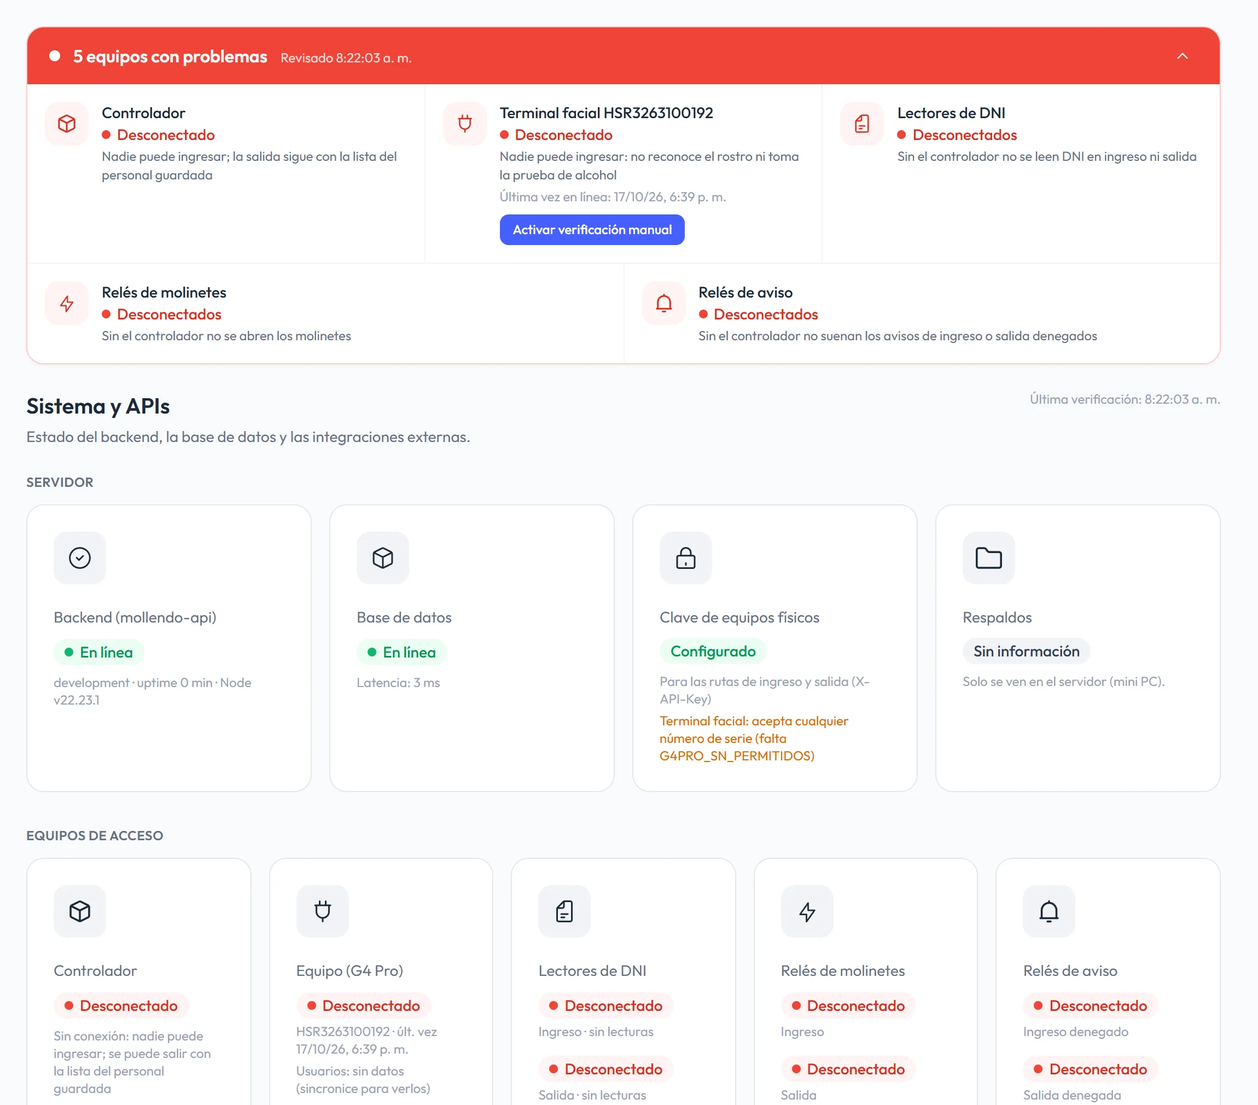
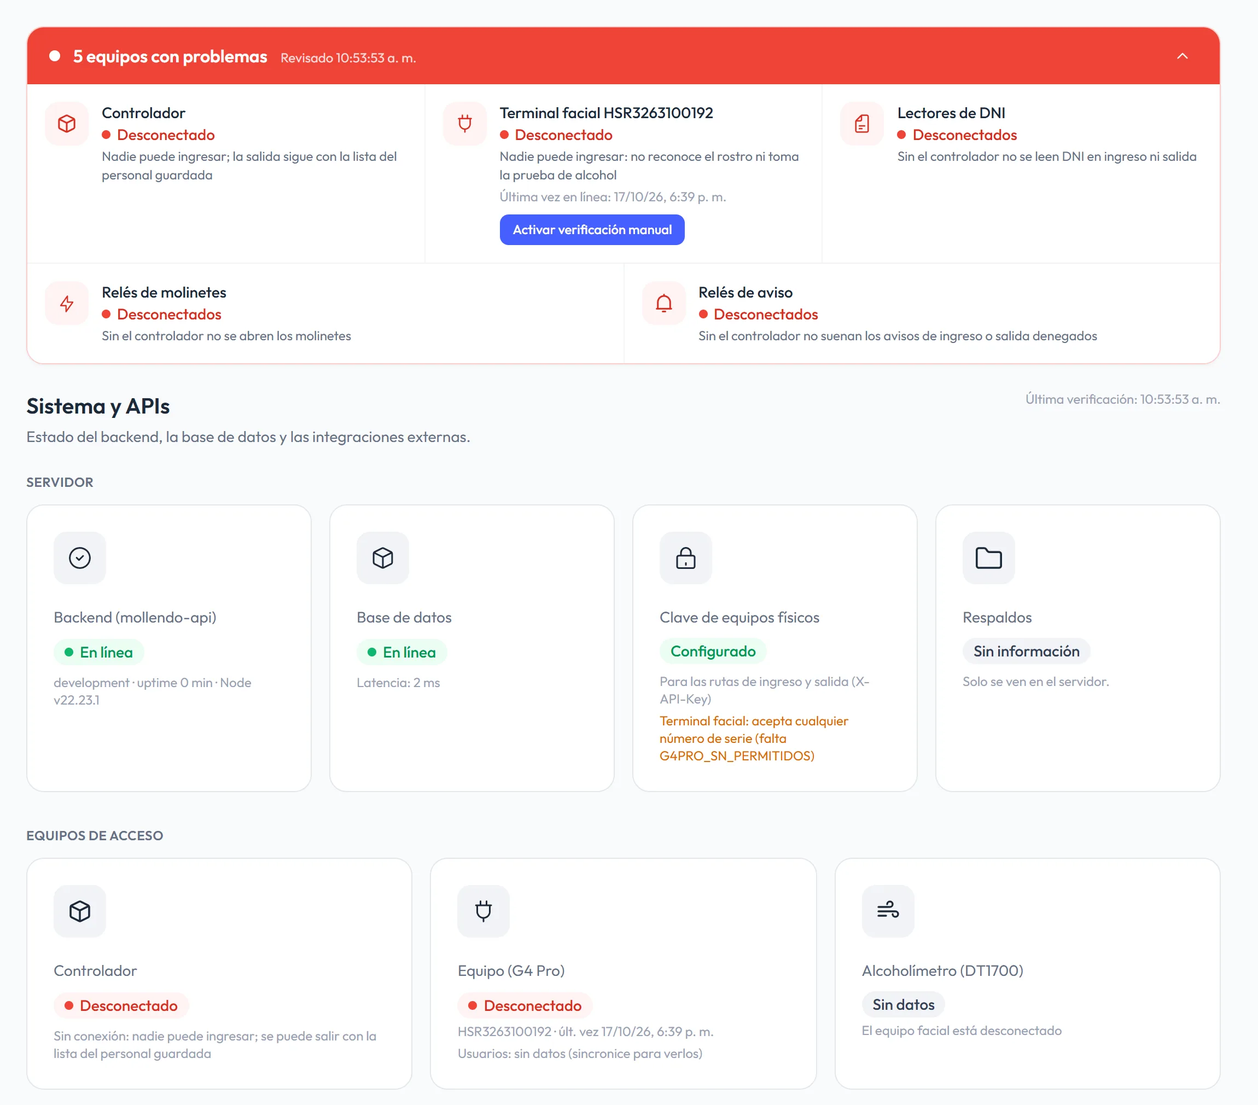
update test

diff --git a/mollendo-api/src/push-sdk/alcoholimetro.service.ts b/mollendo-api/src/push-sdk/alcoholimetro.service.ts
@@ -2,8 +2,11 @@ import { Injectable, Logger, type OnModuleDestroy, type OnModuleInit } from '@ne
 import { PrismaService } from '../prisma/prisma.service.js';
 import { PushSdkService } from './push-sdk.service.js';
 
-/** Cada cuánto se pregunta al equipo facial si el alcoholímetro sigue conectado. */
-const REVISION_MS = 60 * 1000;
+/**
+ * Cada cuánto se pregunta al equipo facial si el alcoholímetro sigue conectado
+ * (el equipo no avisa solo; la orden es liviana: solo lee la lista de USB).
+ */
+const REVISION_MS = 10 * 1000;
 /** Cuánto se espera la respuesta (el equipo recoge las órdenes cada ~2 s). */
 const ESPERA_RESPUESTA_MS = 20 * 1000;
 

diff --git a/mollendo-portal/src/app/(admin)/manual/secciones.tsx b/mollendo-portal/src/app/(admin)/manual/secciones.tsx
@@ -1040,6 +1040,10 @@ export const SECCIONES: SeccionManual[] = [
                   <b>Terminal facial (G4 Pro):</b> en línea o no, su última actividad y cuántas personas y rostros tiene.
                 </li>
                 <li>
+                  <b>Alcoholímetro (DT1700):</b> conectado o no al terminal facial; se revisa cada 10 segundos. Desconectado, nadie puede
+                  ingresar.
+                </li>
+                <li>
                   <b>Lectores de DNI:</b> ingreso y salida, con su última lectura. Si no pita al pasar un DNI, revise su alimentación.
                 </li>
                 <li>

diff --git a/mollendo-api/src/panel/estado-sistema.service.ts b/mollendo-api/src/panel/estado-sistema.service.ts
@@ -47,7 +47,7 @@ export class EstadoSistemaService {
       baseDeDatos = { estado: 'down', latenciaMs: Date.now() - inicio };
     }
 
-    // Cada equipo facial con su alcoholímetro (se revisa cada minuto: AlcoholimetroService).
+    // Cada equipo facial con su alcoholímetro (se revisa cada 10 s: AlcoholimetroService).
     const dispositivos = (await this.pushSdk.listarEstadoDispositivos()).map((d) => ({ ...d, alcoholimetro: this.alcoholimetro.estado(d.serialNumber) }));
     // Con controlador (MOLINETES_REMOTOS=true), los lectores y los relés
     // están en la mini PC de la garita: se muestra lo que ella informa.

diff --git a/mollendo-api/src/push-sdk/push-sdk.service.ts b/mollendo-api/src/push-sdk/push-sdk.service.ts
@@ -319,7 +319,7 @@ export class PushSdkService {
    * Respuestas a consultas (por id de comando). Las grandes llegan en varias
    * partes (`packcnt`/`packidx`): se juntan hasta tenerlas todas.
    */
-  /** Consultas que no se anotan en el registro (las periódicas, p. ej. el alcoholímetro cada minuto). */
+  /** Consultas que no se anotan en el registro (las periódicas, p. ej. el alcoholímetro cada 10 s). */
   private readonly consultasSilenciosas = new Set<number>();
   private readonly respuestasConsulta = new Map<
     number,

diff --git a/mollendo-portal/src/lib/api/types.ts b/mollendo-portal/src/lib/api/types.ts
@@ -244,7 +244,7 @@ export interface EstadoDispositivo {
   ipAddress: string | null;
   /** IP del equipo en la red de la garita (la que informa al registrarse). */
   ipLocal?: string | null;
-  /** El alcoholímetro conectado a ese equipo (se revisa cada minuto; conectado null: todavía no se sabe). */
+  /** El alcoholímetro conectado a ese equipo (se revisa cada 10 s; conectado null: todavía no se sabe). */
   alcoholimetro?: { conectado: boolean | null; revisado: string | null; conectadoVisto: string | null };
 }
 

diff --git a/mollendo-portal/src/app/(admin)/sistema/TarjetasEstado.tsx b/mollendo-portal/src/app/(admin)/sistema/TarjetasEstado.tsx
@@ -119,7 +119,7 @@ export function EquiposEstado({
 
 /**
  * El alcoholímetro de cada equipo facial: el equipo lo ve como un dispositivo
- * USB y el servidor le pregunta cada minuto si sigue ahí. Si está conectado
+ * USB y el servidor le pregunta cada 10 s si sigue ahí. Si está conectado
  * pero no mide, no se nota aquí (el equipo solo le habla durante una prueba).
  */
 export function AlcoholimetroEstado({ comprobando, equipos }: { comprobando: boolean; equipos?: EstadoSistema["equipos"] }) {

diff --git a/PROGRESO.md b/PROGRESO.md
@@ -725,7 +725,7 @@ Resumen del estado actual. El detalle de cada cambio está en la bitácora (abaj
 - **2026-10-20** — **Monitor del G4 Pro en su propia página.** En Sistema y APIs la tarjeta ya no se despliega: título, descripción, insignia "En vivo" y botón **Abrir monitor**, que lleva a `/sistema/monitor` (la tabla de siempre, con "← Sistema y APIs" y "En vivo" arriba). Manual, guía de depuración y checklist (6.6) actualizados. Desplegado en Azure (portal); `/sistema/monitor` responde 200.
 - **2026-10-20** — **Monitor: horas y demora.** La demora cuenta segundos enteros (antes redondeaba: 18:24:26 → 18:24:37,6 decía 12 s en vez de 11). La prueba lleva siempre el día; llegada e ingreso solo la hora (el día solo si cambia).
 - **2026-10-20** — **Monitor del G4 Pro por días y páginas.** Como el Panel: empieza en hoy (selector de día, "Hoy", "Todos los días"), búsqueda por nombre o DNI y 10 por página, como el Panel con "Mostrando X a Y de Z" (antes, las 30 últimas). `GET /integraciones/g4pro/marcaciones` acepta pagina, porPagina, busqueda, desde y hasta (por la llegada) y devuelve `{datos, total, pagina, porPagina}`; las pruebas que no llegaron se comparan con la anterior del equipo aunque esté en otra página o día (con búsqueda no se marcan). "En vivo" solo con hoy o todos los días. Probado en Azure con los datos reales (hoy 4 pruebas; "vilchez" 27). API 244/244, portal 131/131.
-- **2026-10-21** — **Alcoholímetro como equipo aparte (parte A).** Pedido del usuario. `AlcoholimetroService` pregunta cada minuto a cada G4 en línea si ve el USB `1a86:7523` (orden SHELL silenciosa que se borra de la cola al responder). "Sistema y APIs" tiene la tarjeta "Alcoholímetro (DT1700)" (Conectado / Desconectado / Sin datos), la franja de fallas avisa "Nadie puede ingresar: el equipo facial no puede tomar la prueba de alcohol" y la Auditoría registra la desconexión y la vuelta. Al publicarlo (10:39) marcó una **falsa desconexión**: con varias órdenes separadas por ";" el G4 solo devuelve la salida de la última, y llegaba solo "FIN". Ahora es una orden única (`cat /sys/bus/usb/devices/*/uevent | grep -c PRODUCT=1a86/7523/`: 2 si está, 0 si no); a las 10:47 quedó "conectado". La Auditoría guarda esa falsa desconexión (10:39) y su vuelta (10:47, "8 min 5 s"). Pendiente (parte B, tras la prueba física): desconectarlo de verdad, y detectar uno conectado que no mide. API 288/288. Desplegado en Azure (API y portal; respaldos `~/respaldo-alcoholimetro-*.tgz` y `~/respaldo-alcoholimetro2-*.tgz`); mini PC igual a la local.
+- **2026-10-21** — **Alcoholímetro como equipo aparte (parte A).** Pedido del usuario. `AlcoholimetroService` pregunta cada minuto a cada G4 en línea si ve el USB `1a86:7523` (orden SHELL silenciosa que se borra de la cola al responder). "Sistema y APIs" tiene la tarjeta "Alcoholímetro (DT1700)" (Conectado / Desconectado / Sin datos), la franja de fallas avisa "Nadie puede ingresar: el equipo facial no puede tomar la prueba de alcohol" y la Auditoría registra la desconexión y la vuelta. Al publicarlo (10:39) marcó una **falsa desconexión**: con varias órdenes separadas por ";" el G4 solo devuelve la salida de la última, y llegaba solo "FIN". Ahora es una orden única (`cat /sys/bus/usb/devices/*/uevent | grep -c PRODUCT=1a86/7523/`: 2 si está, 0 si no); a las 10:47 quedó "conectado". La Auditoría guarda esa falsa desconexión (10:39) y su vuelta (10:47, "8 min 5 s"). 10:55: a pedido del usuario se revisa **cada 10 s** (antes cada minuto; el equipo no avisa solo, y la orden solo lee la lista de USB); manual (punto "Alcoholímetro (DT1700)" en Sistema y APIs, texto aprobado, captura retomada), Documento Funcional, contingencias y checklist al día. Vigilar que no atrase los pases (si se nota, subir a 15-20 s). Pendiente (parte B, tras la prueba física): desconectarlo de verdad, y detectar uno conectado que no mide. API 288/288. Desplegado en Azure (API y portal; respaldos `~/respaldo-alcoholimetro-*.tgz` y `~/respaldo-alcoholimetro2-*.tgz`); mini PC igual a la local.
 - **2026-10-21** — **Equipo facial (G4) revisado.** En orden: en línea, 2 usuarios con rostro = 2 activos con foto, 3241 órdenes confirmadas (ninguna pendiente), hora sincronizada, umbral igual, solo este número de serie. Pendientes (decisión del usuario, en el checklist): revisión diaria (dejar pendiente); investigar los ~8 s antes del "correcto" (el equipo sigue leyendo el alcoholímetro ~7,7 s tras medir; solo existen los ajustes `AlcoholDetectionFun` y `AlcoholVolume`: consultar a ZKTeco/proveedor); el punto rojo con el alcoholímetro desconectado (el usuario cree que no aparece: probar); y el alcoholímetro como equipo aparte (el G4 lo ve como USB `1a86:7523`; confirmar al desconectarlo). Investigado con órdenes SHELL de solo lectura (3244-3260) y el ayudante `scratchpad/g4shell.py`.
 - **2026-10-21** — **Controlador (mini PC) revisado.** (1) Disco al 85 %: `docker builder prune -af` + `docker image prune -af` (≈65 GB; sin tocar volúmenes ni contenedores detenidos del servidor local anterior) → 15-17 %. (2) Si el servidor rechaza una lectura con un error (4xx: p. ej. el error de validación de hoy o la clave cambiada), el controlador ya no lo calla: suena el aviso de denegado de esa puerta y queda "El servidor rechazó la lectura" (ingreso, salida y tarjeta; `rechazoDelServidor`). (3) Registro también en archivo (`RegistroArchivoLogger`, `/app/datos-controlador/registro/controlador.log`, 5 × 5 MB): el de Docker se perdía al reinstalar. (4) Controlador reconstruido 10:05 (≈1 s sin conexión, no llegó a la Auditoría); lectores conectados. API 284/284 (3 nuevas). Mini PC y Azure con el mismo código; registro de despliegue al día.
 - **2026-10-21** — **API revisada.** Ningún otro formulario con campos sin validación (revisados todos los DTO). Cambios (decisión del usuario): (1) `POST /integraciones/torniquete/comando` ahora solo el administrador y, con el servidor en la nube, manda la orden al controlador (`ControladorGateway.abrirMolinete`; sin controlador conectado, `enviado: false` y "el controlador no está conectado" en la Auditoría); antes usaba los relés del servidor, que en Azure no existen. (2) Ingreso y salida "sin lector" con molinete "Ingreso"/"Salida" en el historial y el Excel. (3) Pruebas automáticas de las acciones de la Auditoría (`auditoria/auditoria-acciones.spec.ts`: molinete a mano, sincronización, descarga de reporte y archivo de documento; y en el flujo: salida sin lector y salida sin DNI). Ficha del comando en APIs de Sistema y Documento Funcional (tabla de APIs) al día. API 282/282 (6 nuevas), portal 140/140. Desplegado en Azure (API y portal; respaldo `~/respaldo-revision-api-*.tgz`); mini PC igual a la local.

diff --git a/docs/cliente/Documento_Funcional_Control_Accesos_TMAM.md b/docs/cliente/Documento_Funcional_Control_Accesos_TMAM.md
@@ -320,8 +320,8 @@ Descarga de la información del sistema en **Excel** o **PDF**. Se elige el repo
 
 ### 4.7. Sistema y APIs (Administrador)
 
-- **Estado:** backend y base de datos ("En línea" / "Sin conexión"), clave de los equipos ("Configurado"), **respaldos** (fecha y tamaño del último; "Al día" o "Atrasado" si transcurren más de 26 horas), **equipos** (cada terminal G4 Pro "En línea" o "Desconectado", con su última actividad), **alcoholímetro** ("Conectado" o "Desconectado" del terminal facial, con la hora de la última revisión: el servidor le pregunta al terminal cada minuto si lo ve conectado; si está conectado pero no mide, no se nota aquí) y **lectores de DNI** de ingreso y salida ("Cable conectado", "Cable desconectado" o "Sin configurar", con la hora de su última lectura; el estado corresponde al cable de datos, ya que el lector solo envía información al leer un DNI) y **relés de los molinetes** ("Conectado" o "No conectado" para ingreso y salida, con la última apertura). Se actualiza en el momento en que un equipo se cae o vuelve (el servidor revisa cada 5 segundos) y, además, cada 15 segundos.
-- **Aviso de fallas en todo el portal:** cuando algo de esta pantalla está caído (base de datos, respaldos atrasados, controlador, terminal facial, alcoholímetro, lectores de DNI o relés), aparece un aviso en la parte superior de cualquier página, **para el administrador y para el vigilante** (que así puede informarlo). Muestra un recuadro por cada tarjeta en falla de Sistema y APIs, en rojo como en esa pantalla, con su estado, qué deja de funcionar (por ejemplo, "Nadie puede ingresar") y la última vez que estuvo en línea. El administrador tiene además un enlace a Sistema y APIs. Se actualiza en el momento en que un equipo se cae o vuelve, junto con las tarjetas de esta pantalla (además, se consulta cada 30 segundos), y desaparece solo cuando todo vuelve a estar en línea. El terminal facial y el controlador figuran caídos a los ~20 segundos sin contacto; los lectores y relés, en segundos; el alcoholímetro, en un minuto como máximo. Se puede contraer; se vuelve a abrir si falla algo distinto.
+- **Estado:** backend y base de datos ("En línea" / "Sin conexión"), clave de los equipos ("Configurado"), **respaldos** (fecha y tamaño del último; "Al día" o "Atrasado" si transcurren más de 26 horas), **equipos** (cada terminal G4 Pro "En línea" o "Desconectado", con su última actividad), **alcoholímetro** ("Conectado" o "Desconectado" del terminal facial, con la hora de la última revisión: el servidor le pregunta al terminal cada 10 segundos si lo ve conectado; si está conectado pero no mide, no se nota aquí) y **lectores de DNI** de ingreso y salida ("Cable conectado", "Cable desconectado" o "Sin configurar", con la hora de su última lectura; el estado corresponde al cable de datos, ya que el lector solo envía información al leer un DNI) y **relés de los molinetes** ("Conectado" o "No conectado" para ingreso y salida, con la última apertura). Se actualiza en el momento en que un equipo se cae o vuelve (el servidor revisa cada 5 segundos) y, además, cada 15 segundos.
+- **Aviso de fallas en todo el portal:** cuando algo de esta pantalla está caído (base de datos, respaldos atrasados, controlador, terminal facial, alcoholímetro, lectores de DNI o relés), aparece un aviso en la parte superior de cualquier página, **para el administrador y para el vigilante** (que así puede informarlo). Muestra un recuadro por cada tarjeta en falla de Sistema y APIs, en rojo como en esa pantalla, con su estado, qué deja de funcionar (por ejemplo, "Nadie puede ingresar") y la última vez que estuvo en línea. El administrador tiene además un enlace a Sistema y APIs. Se actualiza en el momento en que un equipo se cae o vuelve, junto con las tarjetas de esta pantalla (además, se consulta cada 30 segundos), y desaparece solo cuando todo vuelve a estar en línea. El terminal facial y el controlador figuran caídos a los ~20 segundos sin contacto; los lectores y relés, en segundos; el alcoholímetro, en unos 10 segundos. Se puede contraer; se vuelve a abrir si falla algo distinto.
 - **Sincronización con el terminal facial:** un interruptor activa o desactiva la **revisión diaria** y permite elegir su hora (al activarla pide confirmación, porque borra del terminal a quien el sistema no conoce); el resultado de la última (personas agregadas, usuarios borrados, permisos quitados y usuarios del terminal que el sistema no conoce) y los botones **Simular** y **Sincronizar ahora** (con confirmación). La tarjeta del terminal muestra cuántos usuarios y rostros tiene.
 - **Orden del ingreso:** dos interruptores que se excluyen, **DNI → Facial + Alcohol → Molinete** y **Facial + Alcohol → DNI → Molinete**, con los pasos de cada uno, quién lo cambió y desde cuándo (RN-03).
 - **Monitor del terminal facial** (`/sistema/monitor`): cada prueba que envía el terminal (persona, grado de alcohol, hora de la prueba, hora de llegada y demora) y qué hizo el sistema con ella; por día, con búsqueda y en vivo.

diff --git a/docs/cliente/Contingencias_Equipos_Acceso.md b/docs/cliente/Contingencias_Equipos_Acceso.md
@@ -73,7 +73,7 @@ En los dos órdenes, si la prueba da **alcohol**, se deniega con su nombre y sue
 
 | Señal | Dónde | Qué fallas muestra | Estado |
 |---|---|---|---|
-| **Franja roja de fallas** | Arriba de todas las pantallas del portal, para el administrador y el vigilante | Equipo facial desconectado (unos 20 segundos sin contacto), alcoholímetro desconectado del equipo facial (un minuto como máximo), lector de DNI con el cable desconectado, relé no conectado, Controlador (PC) desconectado, respaldos atrasados, sin conexión con el servidor. Aparece y desaparece en el momento, junto con "Sistema y APIs" | Ya existe |
+| **Franja roja de fallas** | Arriba de todas las pantallas del portal, para el administrador y el vigilante | Equipo facial desconectado (unos 20 segundos sin contacto), alcoholímetro desconectado del equipo facial (unos 10 segundos), lector de DNI con el cable desconectado, relé no conectado, Controlador (PC) desconectado, respaldos atrasados, sin conexión con el servidor. Aparece y desaparece en el momento, junto con "Sistema y APIs" | Ya existe |
 | **"Sistema y APIs"** | Portal del administrador | El estado de cada equipo, en detalle | Ya existe |
 | **Auditoría** | Portal del administrador | Cada desconexión y cada vuelta de un equipo, con cuánto duró (buscar "equipos") | Ya existe |
 | **Panel de vigilancia** | Portal del vigilante | Cada ingreso: "esperando rostro y alcohol" con su cuenta regresiva, y el resultado | Ya existe |
@@ -90,7 +90,7 @@ En los dos órdenes, si la prueba da **alcohol**, se deniega con su nombre y sue
 
 - **Salidas:** normales.
 - **Ingresos:** nadie puede ingresar, pero **nadie entra sin prueba de alcohol** (comprobado el 07/10/2026, anexo B). El equipo facial reconoce el rostro, muestra *"Verificación de identidad completada. Realice una medición de alcohol."* y se queda esperando. Al minuto, el sistema deniega por "No completó rostro y alcohol" y el molinete **no se abre**.
-- **El sistema vigila el alcoholímetro** (21/10/2026): cada minuto le pregunta al equipo facial si lo ve conectado por USB. Si se desconecta, aparece en la franja roja de fallas (*"Nadie puede ingresar: el equipo facial no puede tomar la prueba de alcohol"*), en "Sistema y APIs" (tarjeta "Alcoholímetro (DT1700)") y en la Auditoría. **Límite:** un alcoholímetro conectado pero malogrado (no mide) no se detecta así, porque el equipo solo le habla durante una prueba; para ese caso quedan las señales de la tabla siguiente (pendiente: avisar cuando varias pruebas seguidas empiezan y no dan resultado).
+- **El sistema vigila el alcoholímetro** (21/10/2026): cada 10 segundos le pregunta al equipo facial si lo ve conectado por USB. Si se desconecta, aparece en la franja roja de fallas (*"Nadie puede ingresar: el equipo facial no puede tomar la prueba de alcohol"*), en "Sistema y APIs" (tarjeta "Alcoholímetro (DT1700)") y en la Auditoría. **Límite:** un alcoholímetro conectado pero malogrado (no mide) no se detecta así, porque el equipo solo le habla durante una prueba; para ese caso quedan las señales de la tabla siguiente (pendiente: avisar cuando varias pruebas seguidas empiezan y no dan resultado).
 
 ### 3.2. Cómo se detecta
 
@@ -101,7 +101,7 @@ La persona que no puede soplar **no se va**: le avisa al vigilante en ese moment
 | La persona dice *"miré al equipo pero no me deja soplar"* | — |
 | El Panel muestra "esperando rostro y alcohol" y, al minuto, "Denegado: no completó rostro y alcohol" | Ya existe |
 | **Aviso en el Panel**: en el momento en que alguien no completa, aparece arriba del Panel un aviso ámbar con su nombre y la hora: *"Si dice que no pudo soplar: revise si el equipo facial muestra un punto rojo (alcoholímetro desconectado) y avise a soporte."* Se cierra con la ✕ o desaparece solo cuando la siguiente persona ingresa bien; se mantiene al recargar la página. La etiqueta "No completó rostro y alcohol" de la tabla lleva una ⓘ con la misma explicación | Programado (15/10/2026); falta subirlo al servidor |
-| **Franja roja de fallas y "Sistema y APIs"**: "Alcoholímetro (DT1700): Desconectado" (un minuto como máximo) | Ya existe (21/10/2026); falta la prueba desconectándolo de verdad |
+| **Franja roja de fallas y "Sistema y APIs"**: "Alcoholímetro (DT1700): Desconectado" (unos 10 segundos) | Ya existe (21/10/2026); falta la prueba desconectándolo de verdad |
 | Punto rojo en la pantalla del equipo facial | Ya existe |
 
 ### 3.3. Qué se hace

diff --git a/docs/g4pro/Checklist_Pruebas_Asistencia.md b/docs/g4pro/Checklist_Pruebas_Asistencia.md
@@ -123,7 +123,7 @@ Interruptor "Facial + Alcohol → DNI → Molinete" **encendido**.
 | 5.7 | Desconectar el lector de DNI de la entrada | Sistema y APIs lo muestra desconectado, el Panel muestra la franja "sin lector" (ingreso solo con rostro y alcohol) y queda en la Auditoría; al volver a conectarlo, se reabre solo. El 21/10 se simuló desde la mini PC (sin tocar cables): falta desconectar el cable de verdad | [ ] |
 | 5.8 | Reinicio del sistema (actualización) en medio de un pase | Quien estaba esperando pierde el pase y debe repetirlo; nadie entra sin prueba | [ ] |
 | 5.9 | Hora del G4 | Sigue igual a la del servidor (diferencia de 1-2 s); si se desajusta, avisar | [ ] |
-| 5.10 | Alcoholímetro desconectado del G4 | El equipo no deja hacer la prueba: nadie entra. En un minuto como máximo, la franja de fallas y Sistema y APIs muestran "Alcoholímetro (DT1700): Desconectado" y queda en la Auditoría; al conectarlo, vuelve solo | [ ] |
+| 5.10 | Alcoholímetro desconectado del G4 | El equipo no deja hacer la prueba: nadie entra. En unos 10 segundos, la franja de fallas y Sistema y APIs muestran "Alcoholímetro (DT1700): Desconectado" y queda en la Auditoría; al conectarlo, vuelve solo | [ ] |
 | 5.11 | Desconectar el lector de DNI de la salida | Franja "sin lector" con "Ir a Presentes ahora"; en Presentes ahora, "Salida" abre la salida (con confirmación) y queda "Salida sin lector" en el Panel y en la Auditoría | [ ] |
 | 5.12 | Tarjeta de contingencia impresa | El lector Syble lee el QR: aparece en la lista de usos; con una aprobación esperando, entra a nombre de quien sopló. Después, "Cambiar código" de la tarjeta 1 (se leyó con un celular) | [ ] |
 | 5.13 | Un ingreso y una salida con DNI | Entran y salen normal: confirma la corrección del 21/10 (desde el 20/10 ~20:07 la API rechazaba todo DNI del lector) | [ ] |
@@ -152,4 +152,4 @@ Interruptor "Facial + Alcohol → DNI → Molinete" **encendido**.
 - [ ] **Revisión diaria del equipo facial** (Sistema y APIs → Sincronización): hoy desactivada. Pendiente decidir si se activa (propuesta: 03:00; borra del equipo a quien no está en el sistema; queda en la Auditoría).
 - [ ] **Los ~8 s antes del "correcto"** (investigado el 21/10 en el `Verify.txt`): tras medir (`onFinishAlcoholResultHandler`), el equipo sigue en el estado de alcohol leyendo el alcoholímetro ~90 veces por segundo durante ~7,7 s y recién entonces registra la prueba y dice "correcto". El equipo solo expone dos ajustes del alcohol (`AlcoholDetectionFun` y `AlcoholVolume`): no hay uno de tiempo. Probable origen: el ciclo del propio alcoholímetro DT1700 o un tiempo fijo de la firmware. Consultar a ZKTeco / proveedor; comparar con el ciclo del DT1700 usado solo (botón "Test").
 - [ ] **Alcoholímetro desconectado: ¿muestra el punto rojo?** El 07/10 (modo control de acceso) se vio un ícono con punto rojo; el usuario cree que hoy no aparece. Probar en el punto de acceso (prueba 5.10) y mirar la pantalla.
-- [ ] **Alcoholímetro como equipo aparte:** el G4 lo ve como un dispositivo USB "USB Serial" (`1a86:7523`, chip CH340) en `/sys/bus/usb/devices` (los demás: lector Live20R, red AX88179 y hubs). **Parte A programada (21/10):** el servidor pregunta cada minuto (`cat /sys/bus/usb/devices/*/uevent | grep -c PRODUCT=1a86/7523/`: 2 si está, 0 si no; una sola orden, porque con varias separadas por ";" el equipo solo devuelve la última). Falta: confirmar en la prueba 5.10 que desaparece al desconectarlo; probar uno conectado pero apagado o malogrado (ver qué deja en `Verify.txt`) y una persona reconocida que no sopla; con eso, **parte B**: avisar "posible falla" cuando varias pruebas seguidas empiezan y no dan resultado.
+- [ ] **Alcoholímetro como equipo aparte:** el G4 lo ve como un dispositivo USB "USB Serial" (`1a86:7523`, chip CH340) en `/sys/bus/usb/devices` (los demás: lector Live20R, red AX88179 y hubs). **Parte A programada (21/10):** el servidor pregunta cada 10 s (`cat /sys/bus/usb/devices/*/uevent | grep -c PRODUCT=1a86/7523/`: 2 si está, 0 si no; una sola orden, porque con varias separadas por ";" el equipo solo devuelve la última). Falta: confirmar en la prueba 5.10 que desaparece al desconectarlo; probar uno conectado pero apagado o malogrado (ver qué deja en `Verify.txt`) y una persona reconocida que no sopla; con eso, **parte B**: avisar "posible falla" cuando varias pruebas seguidas empiezan y no dan resultado.
